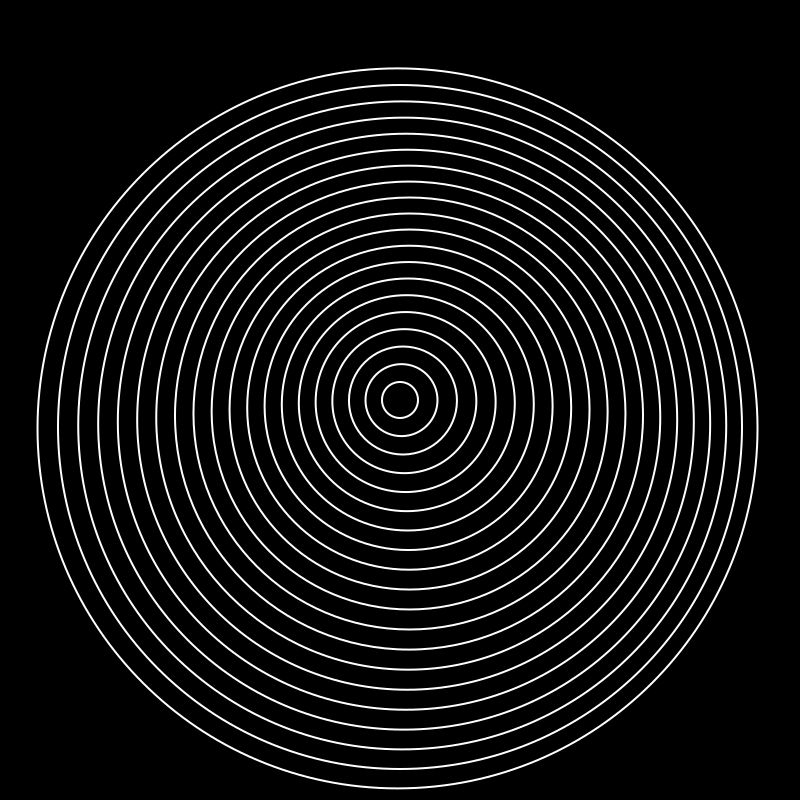
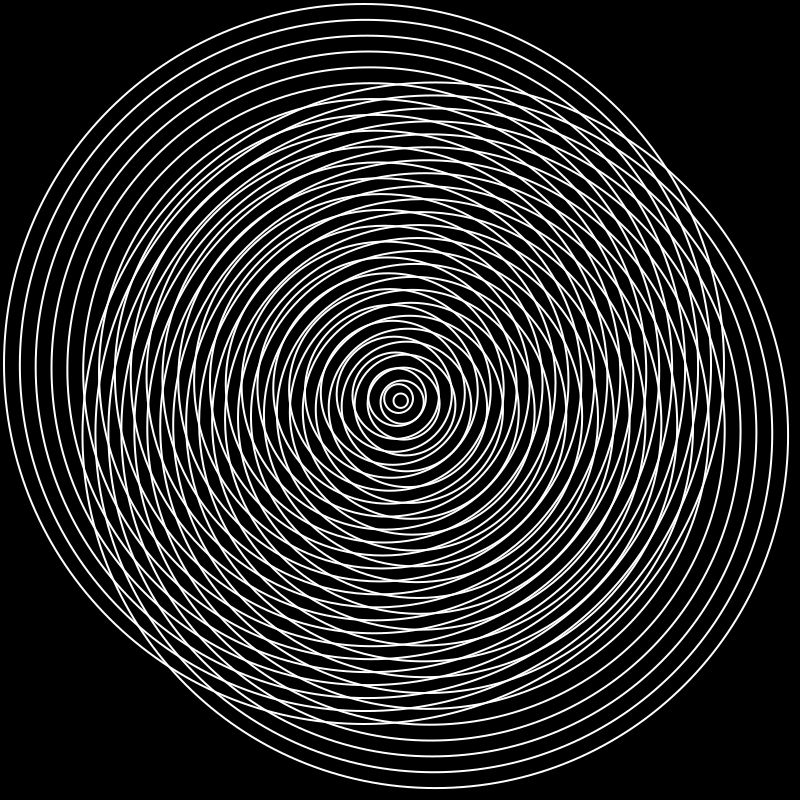
Gallery Update: 2026-01-24 Period 3

Changed region(s): [[0.0, 0.0, 1.0, 1.0]]

diff --git a/gallery/public/gallery/2026-01-24/period_3.py b/gallery/public/gallery/2026-01-24/period_3.py
@@ -8,24 +8,29 @@ surface = cairo.ImageSurface(cairo.FORMAT_ARGB32, width, height)
 ctx = cairo.Context(surface)
 
 # Background
-ctx.set_source_rgb(0, 0, 0)  # or your choice
+ctx.set_source_rgb(0, 0, 0)
 ctx.paint()
 
 # Concentric circles with systematic offset
 center_x, center_y = width / 2, height / 2
-num_circles = 20
-max_radius = min(width, height) / 2 * 0.9  # Limit radius to fit within bounds
-radius_increment = max_radius / num_circles
-offset_increment = 5  # Adjust for visual effect
+num_circles = 50
+max_radius = min(width, height) / 2 * 0.9
+radius_step = max_radius / num_circles
+offset_factor = 0.1 # Adjust for visual balance
 
 for i in range(num_circles):
-    radius = radius_increment * (i + 1)
-    offset_angle = math.radians(offset_increment * i) # Convert to radians
+    radius = radius_step * (i + 1)
+    offset = radius * offset_factor
 
-    x = center_x + math.cos(offset_angle) * (i*1.5) # Introduce x offset
-    y = center_y + math.sin(offset_angle) * (i*1.5) # Introduce y offset
+    # Alternate offset direction
+    if i % 2 == 0:
+        x = center_x + offset
+        y = center_y + offset
+    else:
+        x = center_x - offset
+        y = center_y - offset
 
-    ctx.set_source_rgb(1, 1, 1) # White
-    ctx.set_line_width(2)
     ctx.arc(x, y, radius, 0, 2 * math.pi)
+    ctx.set_line_width(2)
+    ctx.set_source_rgb(1, 1, 1)  # White lines
     ctx.stroke()
